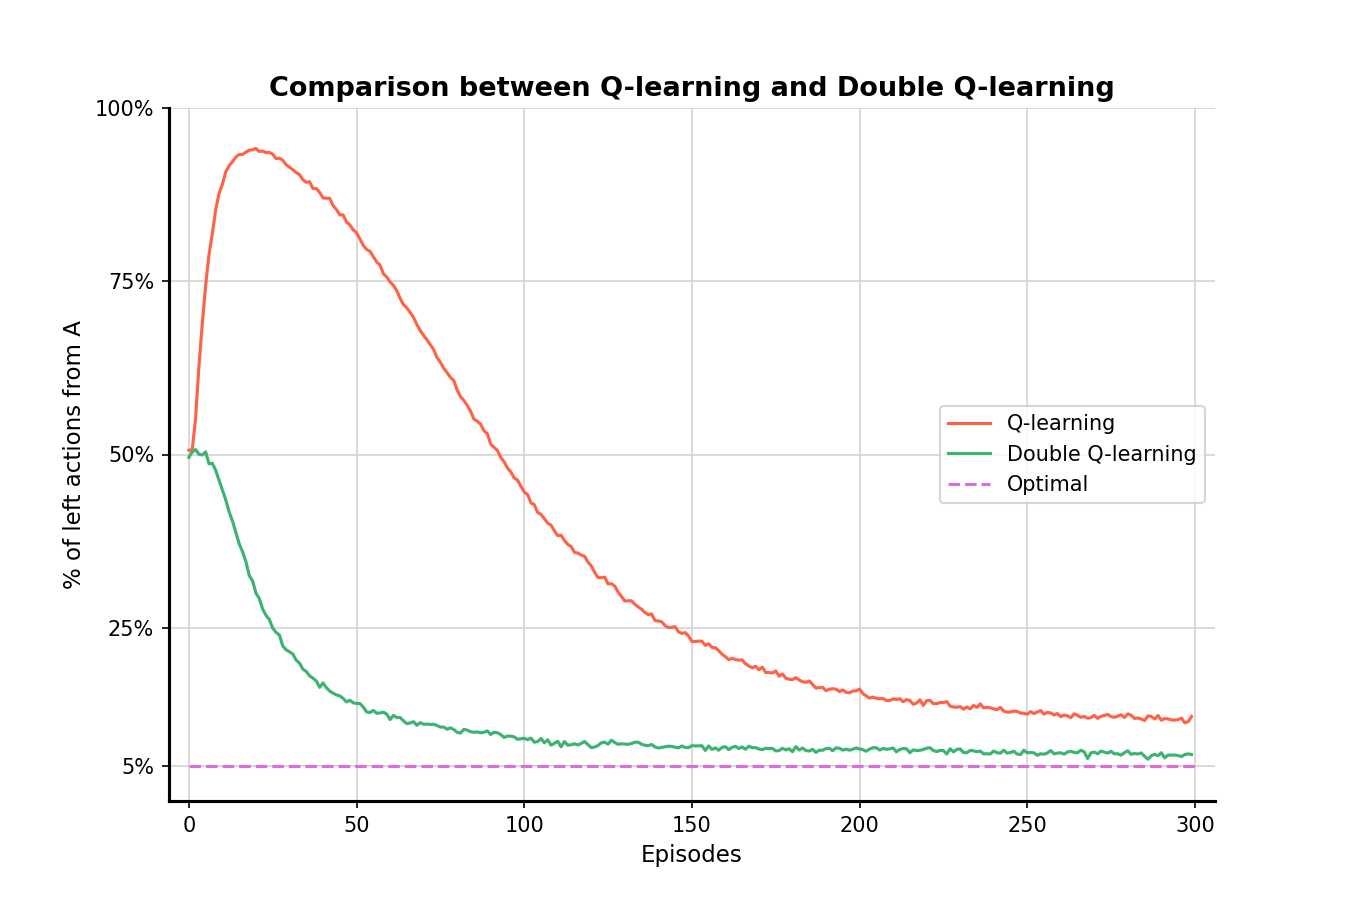
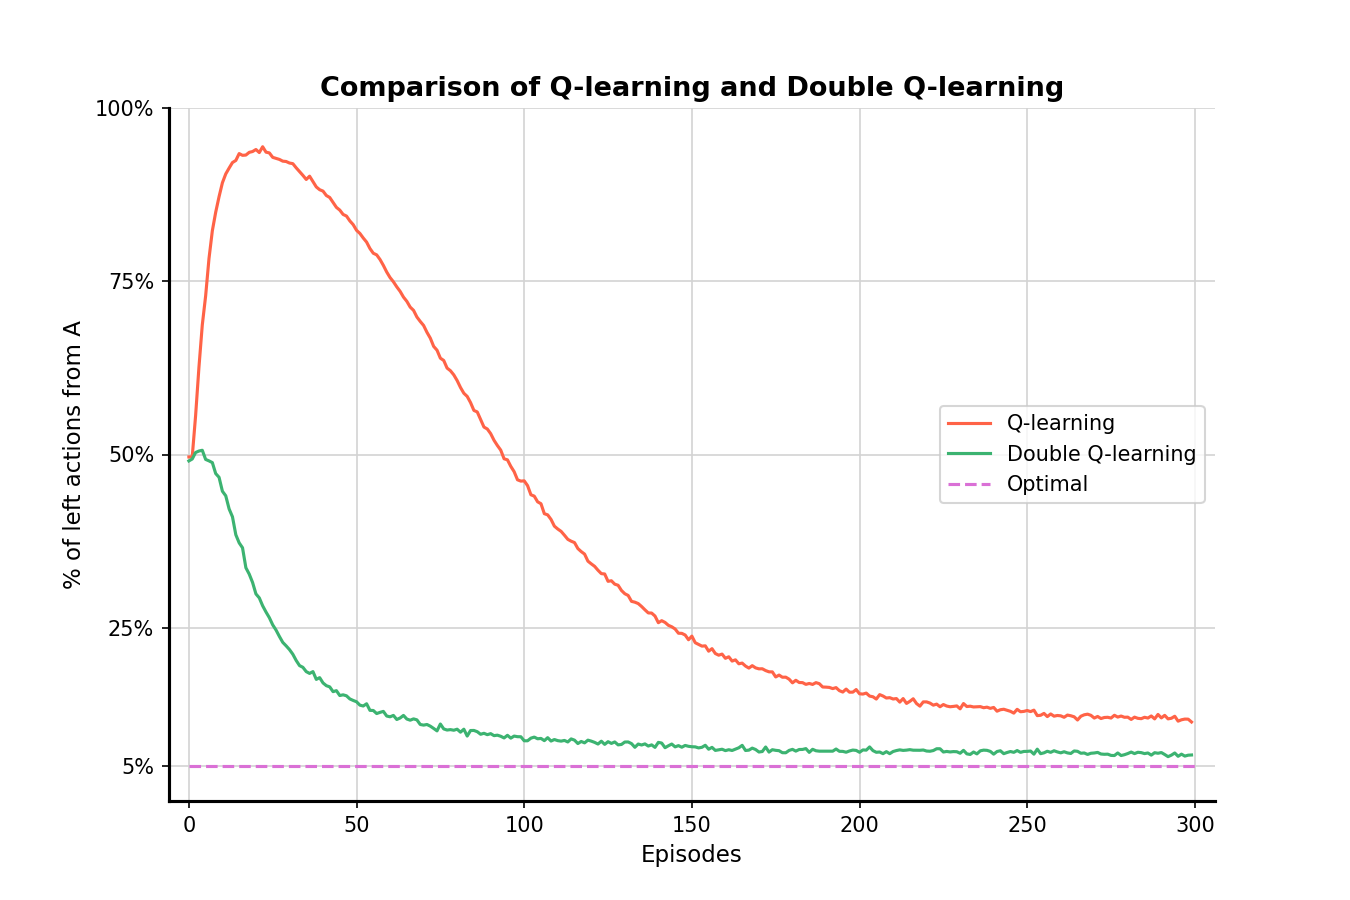
example 6.7 updated

diff --git a/chapter_06_temporal_difference_learning/example_6_7_max_bias.py b/chapter_06_temporal_difference_learning/example_6_7_max_bias.py
@@ -100,7 +100,7 @@ def plot_result(left_actions_q, left_actions_dq):
     plt.yticks([0.05, 0.25, 0.5, 0.75, 1.0], ["5%", "25%", "50%", "75%", "100%"])
     plt.ylim(0.0, 1.0)
     plt.title(
-        "Comparison between Q-learning and Double Q-learning",
+        "Comparison of Q-learning and Double Q-learning",
         fontsize=13,
         fontweight="bold",
     )
